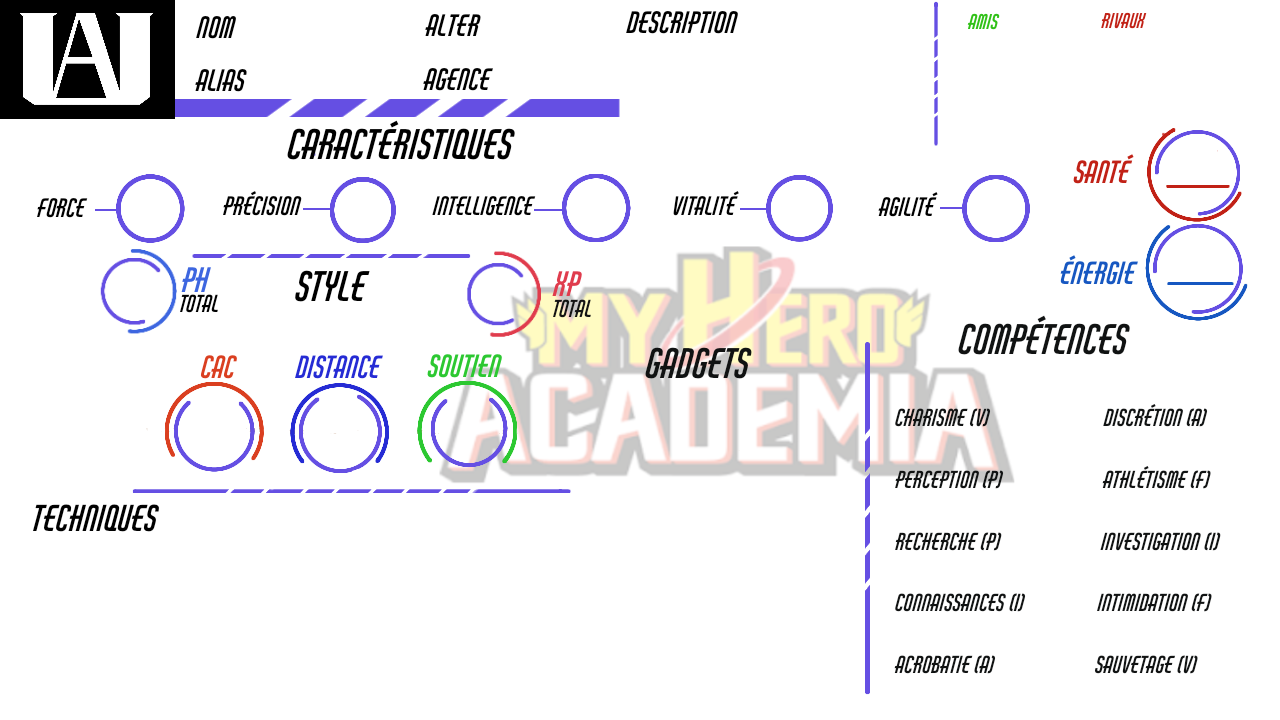
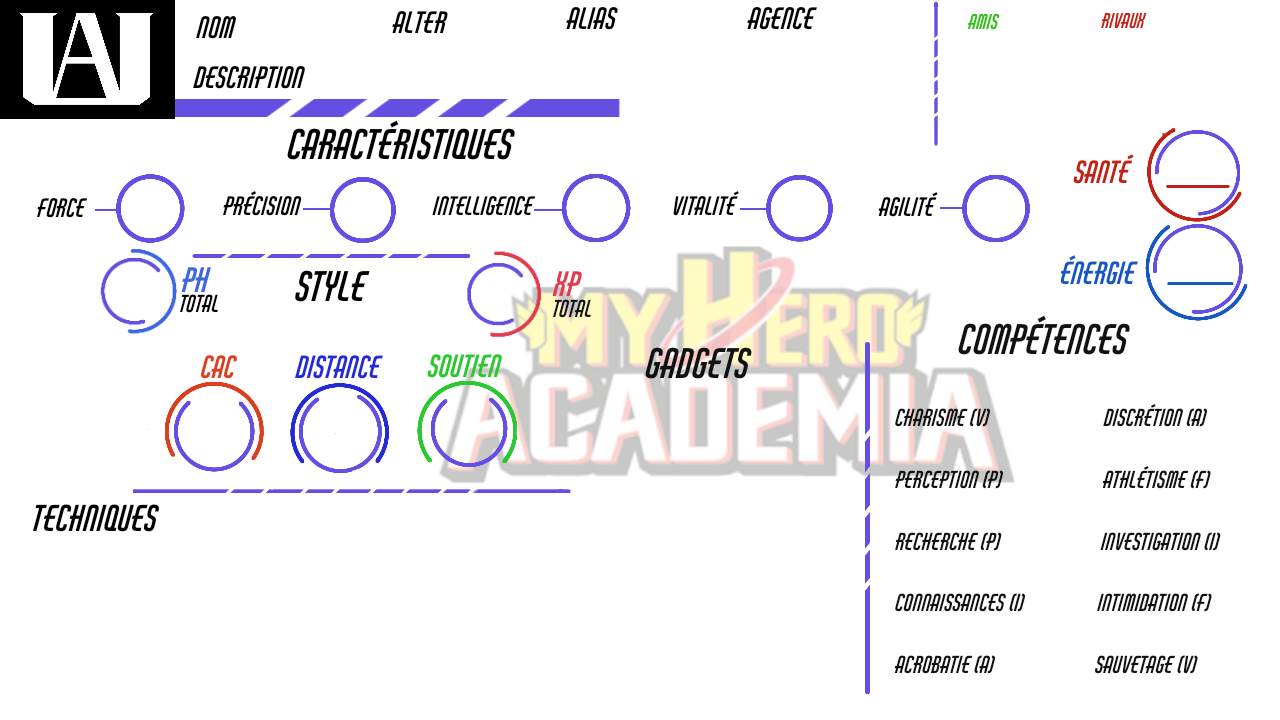
Background modified

diff --git a/characterSheet.html b/characterSheet.html
@@ -13,9 +13,7 @@
 
     
     <input type="text" name="attr_Alias" class="iLine Vert" style="top:36px;left:250px; width:110px;" title="@{Alias}"/>
-
-    
-    <input type="text" name="attr_Description" class="iLine Vert" style="top:58px;left:290px; width:510px;" title="@{Description}"/>
+    <input type="text" name="attr_Description" class="iLine Vert" style="top:16px;left:750px; width:510px;" title="@{Description}"/>
     
     <!--  Caractéristiques personnage -->
     

diff --git a/characterSheet.css b/characterSheet.css
@@ -23,7 +23,7 @@
 
 .charsheet {
    position:absolute;
-   background-image:url("https://raw.githubusercontent.com/NPoirie/Fiche_Perso_MHA/master/Fiche-Perso-Hero.png");;
+   background-image:url("https://raw.githubusercontent.com/SOS-ouistiti/MHA_sheet/master/Fiche-Perso-Hero.png");;
    background-repeat: no-repeat;
    width:1205px;
    height:850px;
